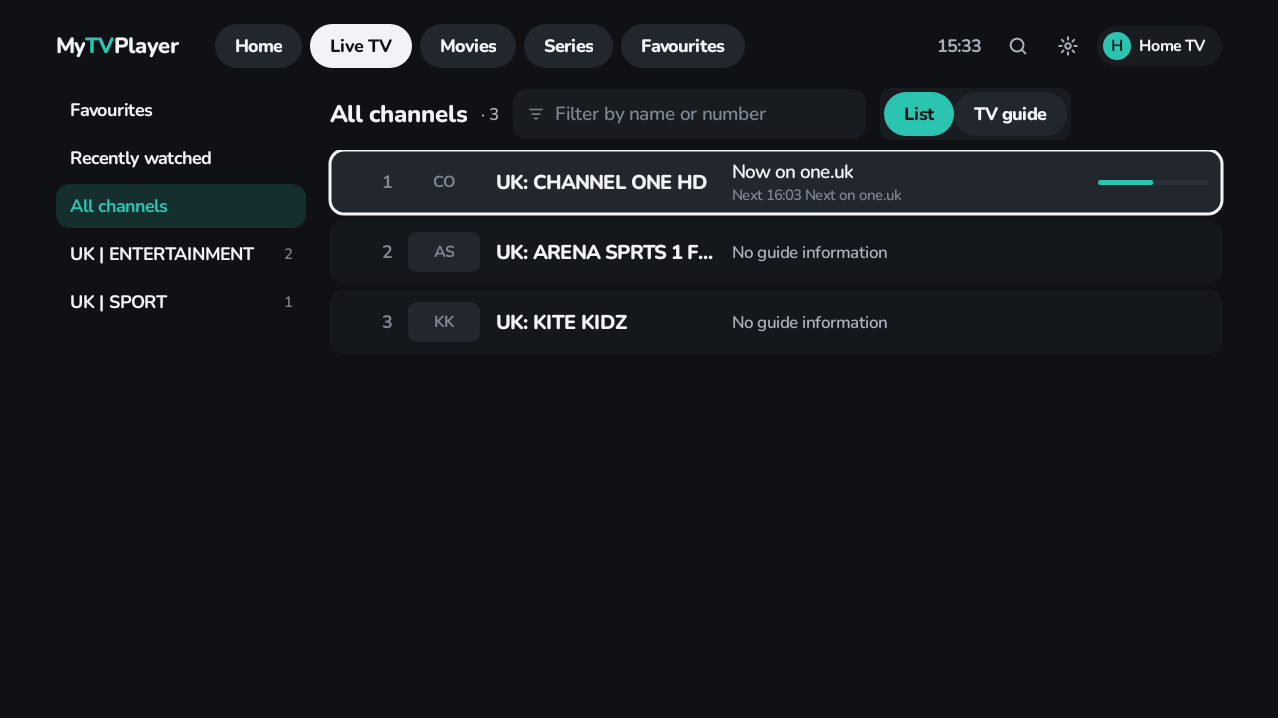
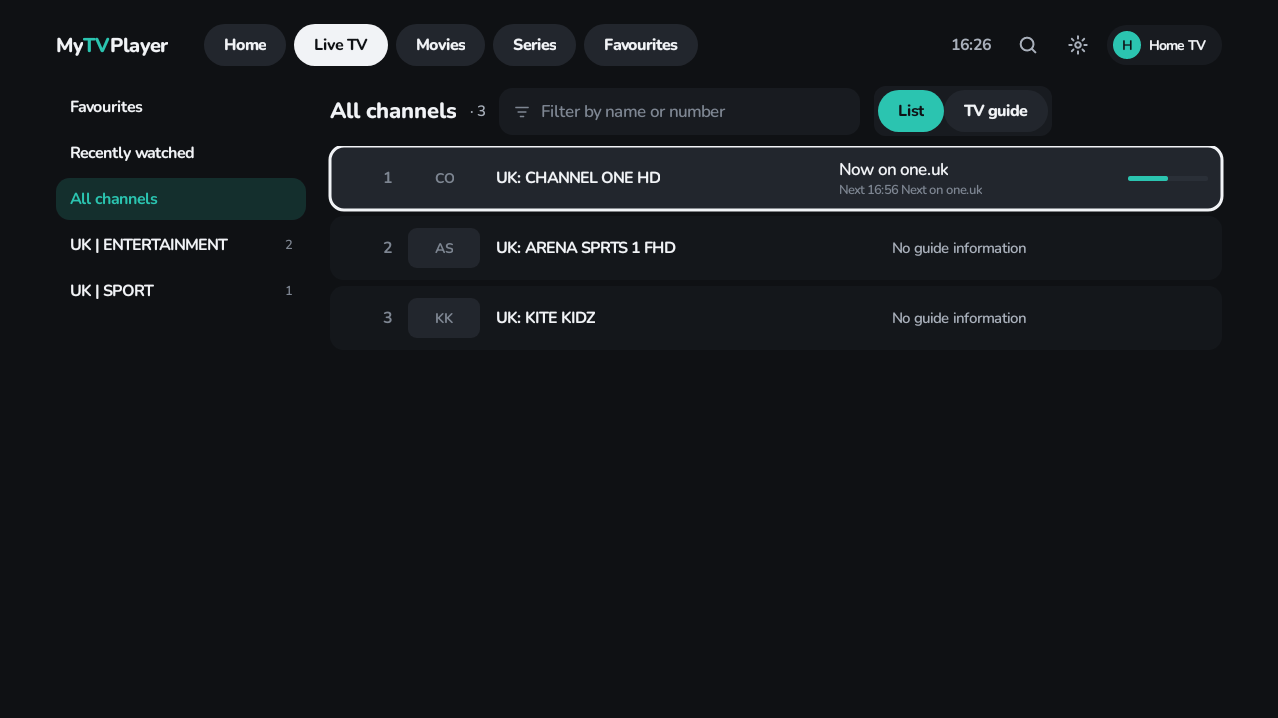
Fix the long-press menu picking Watch, add Info/Menu key, smaller text (0.2.2)
- Side panels ignore the rest of an OK press that started before they
  opened, so holding OK opens the channel menu without selecting Watch
- The remote's Info/Options/Menu button opens the same menu as holding OK
- Text is one step smaller by default (Large text is now off by default)
- Channel names get a wider, slightly smaller column in the Live TV list

Claude-Session: https://claude.ai/code/session_01XanGeKN99Wd1hmQc73eoBg

diff --git a/app/src/test/java/com/biskyt/mytvplayer/ui/RemoteKeysUiTest.kt b/app/src/test/java/com/biskyt/mytvplayer/ui/RemoteKeysUiTest.kt
@@ -1,0 +1,68 @@
+package com.biskyt.mytvplayer.ui
+
+import android.view.KeyEvent.ACTION_DOWN
+import android.view.KeyEvent.ACTION_UP
+import android.view.KeyEvent.KEYCODE_DPAD_CENTER
+import android.view.KeyEvent.KEYCODE_INFO
+import androidx.compose.runtime.getValue
+import androidx.compose.runtime.mutableIntStateOf
+import androidx.compose.runtime.mutableStateOf
+import androidx.compose.runtime.setValue
+import androidx.compose.ui.input.key.KeyEvent
+import androidx.compose.ui.test.hasText
+import androidx.compose.ui.test.junit4.createComposeRule
+import androidx.compose.ui.test.performKeyPress
+import androidx.tv.material3.Text
+import com.biskyt.mytvplayer.testutil.TestApp
+import com.biskyt.mytvplayer.ui.common.SidePanel
+import com.biskyt.mytvplayer.ui.common.TvCard
+import com.biskyt.mytvplayer.ui.common.rememberFirstFocus
+import com.biskyt.mytvplayer.ui.theme.MyTvTheme
+import org.junit.Assert.assertEquals
+import org.junit.Rule
+import org.junit.Test
+import org.junit.runner.RunWith
+import org.robolectric.RobolectricTestRunner
+import org.robolectric.annotation.Config
+
+@RunWith(RobolectricTestRunner::class)
+@Config(sdk = [34], application = TestApp::class)
+class RemoteKeysUiTest {
+    @get:Rule val compose = createComposeRule()
+
+    private fun key(action: Int, code: Int, repeat: Int = 0) = KeyEvent(android.view.KeyEvent(0L, 0L, action, code, repeat))
+
+    @Test
+    fun `info button opens the options and a held OK doesn't pick from them`() {
+        var options by mutableStateOf(false)
+        var watched by mutableIntStateOf(0)
+        compose.setContent {
+            MyTvTheme {
+                TvCard(onClick = {}, onLongClick = { options = true }, modifier = rememberFirstFocus()) { Text("Channel") }
+                if (options) {
+                    SidePanel(onDismiss = { options = false }) {
+                        TvCard(onClick = { watched++ }, modifier = rememberFirstFocus()) { Text("Watch") }
+                    }
+                }
+            }
+        }
+        compose.waitForIdle()
+        compose.onNode(hasText("Channel")).performKeyPress(key(ACTION_DOWN, KEYCODE_INFO))
+        compose.onNode(hasText("Channel")).performKeyPress(key(ACTION_UP, KEYCODE_INFO))
+        compose.waitForIdle()
+        assertEquals(true, options)
+
+        // The rest of a long OK press (repeats, then the release) arrives at the menu: nothing is picked.
+        val watch = compose.onNode(hasText("Watch"))
+        watch.performKeyPress(key(ACTION_DOWN, KEYCODE_DPAD_CENTER, repeat = 3))
+        watch.performKeyPress(key(ACTION_UP, KEYCODE_DPAD_CENTER))
+        compose.waitForIdle()
+        assertEquals(0, watched)
+
+        // A fresh press does pick.
+        watch.performKeyPress(key(ACTION_DOWN, KEYCODE_DPAD_CENTER))
+        watch.performKeyPress(key(ACTION_UP, KEYCODE_DPAD_CENTER))
+        compose.waitForIdle()
+        assertEquals(1, watched)
+    }
+}

diff --git a/app/src/main/java/com/biskyt/mytvplayer/ui/common/Keys.kt b/app/src/main/java/com/biskyt/mytvplayer/ui/common/Keys.kt
@@ -1,6 +1,13 @@
 package com.biskyt.mytvplayer.ui.common
 
+import androidx.compose.runtime.Composable
+import androidx.compose.runtime.remember
+import androidx.compose.ui.Modifier
 import androidx.compose.ui.input.key.Key
+import androidx.compose.ui.input.key.KeyEventType
+import androidx.compose.ui.input.key.key
+import androidx.compose.ui.input.key.onPreviewKeyEvent
+import androidx.compose.ui.input.key.type
 
 private val digitKeys = listOf(Key.Zero, Key.One, Key.Two, Key.Three, Key.Four, Key.Five, Key.Six, Key.Seven, Key.Eight, Key.Nine)
 private val numPadKeys =
@@ -8,3 +15,38 @@ private val numPadKeys =
 
 /** The number on a remote's digit key (or number pad), or null for any other key. */
 fun Key.digit(): Int? = digitKeys.indexOf(this).takeIf { it >= 0 } ?: numPadKeys.indexOf(this).takeIf { it >= 0 }
+
+/** Remote buttons that open a context menu; remotes label them Info, Options, Menu or "…". */
+private val optionsKeys = setOf(Key.Info, Key.Menu, Key.TvContentsMenu, Key.TvMediaContextMenu)
+
+private val selectKeys = setOf(Key.DirectionCenter, Key.Enter, Key.NumPadEnter)
+
+fun Key.isOptions(): Boolean = this in optionsKeys
+
+/**
+ * Opens [onOptions] from the remote's Info/Options/Menu button, as an alternative to holding OK.
+ */
+fun Modifier.onOptionsKey(onOptions: () -> Unit): Modifier = onPreviewKeyEvent { e ->
+    if (!e.key.isOptions()) return@onPreviewKeyEvent false
+    if (e.type == KeyEventType.KeyDown && e.nativeKeyEvent.repeatCount == 0) onOptions()
+    true
+}
+
+/**
+ * Ignores OK presses that began before this content appeared. Holding OK opens a menu while the button is still
+ * down; without this, the held key's repeats and its release land on the menu's first item and select it.
+ */
+@Composable
+fun Modifier.ignoreHeldSelect(): Modifier {
+    val armed = remember { booleanArrayOf(false) }
+    return onPreviewKeyEvent { e ->
+        when {
+            e.key !in selectKeys || armed[0] -> false
+            e.type == KeyEventType.KeyDown && e.nativeKeyEvent.repeatCount == 0 -> {
+                armed[0] = true
+                false
+            }
+            else -> true
+        }
+    }
+}

diff --git a/app/src/main/java/com/biskyt/mytvplayer/ui/live/LiveScreen.kt b/app/src/main/java/com/biskyt/mytvplayer/ui/live/LiveScreen.kt
@@ -244,10 +244,11 @@ fun ChannelRow(
                 modifier = Modifier.width(48.dp)
             )
             ChannelLogo(ch.logoUrl, ch.name)
-            Row(Modifier.width(220.dp), verticalAlignment = Alignment.CenterVertically) {
+            // Provider names are long ("US: NBC 4 (WDIV) DETROIT HD"), so the name gets the larger share of the row.
+            Row(Modifier.weight(1.2f), verticalAlignment = Alignment.CenterVertically) {
                 Text(
                     ch.name,
-                    style = MaterialTheme.typography.titleMedium,
+                    style = MaterialTheme.typography.titleSmall,
                     maxLines = 1,
                     overflow = TextOverflow.Ellipsis,
                     modifier = Modifier.weight(1f, fill = false)
@@ -277,7 +278,7 @@ fun ChannelRow(
                     }
                 }
             }
-            if (nn?.now != null) ProgressLine(nn.progress(nowMs), Modifier.width(110.dp))
+            if (nn?.now != null) ProgressLine(nn.progress(nowMs), Modifier.width(80.dp))
         }
     }
 }

diff --git a/app/src/main/java/com/biskyt/mytvplayer/ui/common/Components.kt b/app/src/main/java/com/biskyt/mytvplayer/ui/common/Components.kt
@@ -45,6 +45,7 @@ private val FocusRing = Border(BorderStroke(3.dp, Palette.text))
 /**
  * The app's one clickable surface: neutral background, white ring when focused, optional selected state in accent.
  * No focus scale animation by default — re-laying out rows on every focus change is costly on slow boxes.
+ * [onLongClick] (holding OK) is also opened by the remote's Info/Options/Menu button.
  */
 @Composable
 fun TvCard(
@@ -61,7 +62,7 @@ fun TvCard(
     Surface(
         onClick = onClick,
         onLongClick = onLongClick,
-        modifier = modifier,
+        modifier = if (onLongClick != null) modifier.onOptionsKey(onLongClick) else modifier,
         shape = ClickableSurfaceDefaults.shape(shape),
         scale = ClickableSurfaceDefaults.scale(focusedScale = 1f),
         colors = ClickableSurfaceDefaults.colors(

diff --git a/app/src/main/java/com/biskyt/mytvplayer/ui/common/Schedule.kt b/app/src/main/java/com/biskyt/mytvplayer/ui/common/Schedule.kt
@@ -89,7 +89,7 @@ fun ScheduleList(programmes: List<ChannelProgramme>?, modifier: Modifier = Modif
 fun SidePanel(onDismiss: () -> Unit, width: Dp = 430.dp, dim: Boolean = true, content: @Composable () -> Unit) {
     Dialog(onDismissRequest = onDismiss, properties = DialogProperties(usePlatformDefaultWidth = false, decorFitsSystemWindows = false)) {
         Box(
-            Modifier.fillMaxSize().background(
+            Modifier.fillMaxSize().ignoreHeldSelect().background(
                 if (dim) Palette.background.copy(alpha = 0.6f) else androidx.compose.ui.graphics.Color.Transparent
             ),
             contentAlignment = Alignment.CenterEnd

diff --git a/app/src/main/java/com/biskyt/mytvplayer/ui/theme/Theme.kt b/app/src/main/java/com/biskyt/mytvplayer/ui/theme/Theme.kt
@@ -74,7 +74,7 @@ private fun typography(large: Boolean): Typography {
 private const val DESIGN_WIDTH = 1280f
 
 @Composable
-fun MyTvTheme(accentArgb: Int = AccentPalette.DEFAULT, largeText: Boolean = true, content: @Composable () -> Unit) {
+fun MyTvTheme(accentArgb: Int = AccentPalette.DEFAULT, largeText: Boolean = false, content: @Composable () -> Unit) {
     // Derived once per accent change; nothing is recomputed while drawing.
     val accent = remember(accentArgb) {
         AccentPalette.from(accentArgb).let { Accent(Color(it.accent), Color(it.tint), Color(it.soft), Color(it.onAccent)) }

diff --git a/app/src/main/java/com/biskyt/mytvplayer/data/SettingsRepository.kt b/app/src/main/java/com/biskyt/mytvplayer/data/SettingsRepository.kt
@@ -34,7 +34,7 @@ data class Settings(
     val startOnLastChannel: Boolean = false,
     val lastChannelId: Long = 0,
     val accent: Int = AccentPalette.DEFAULT,
-    val largeText: Boolean = true
+    val largeText: Boolean = false
 ) {
     val effectiveSubtitleLanguage: String get() = subtitleLanguage.ifEmpty { Locale.getDefault().language }
 }
